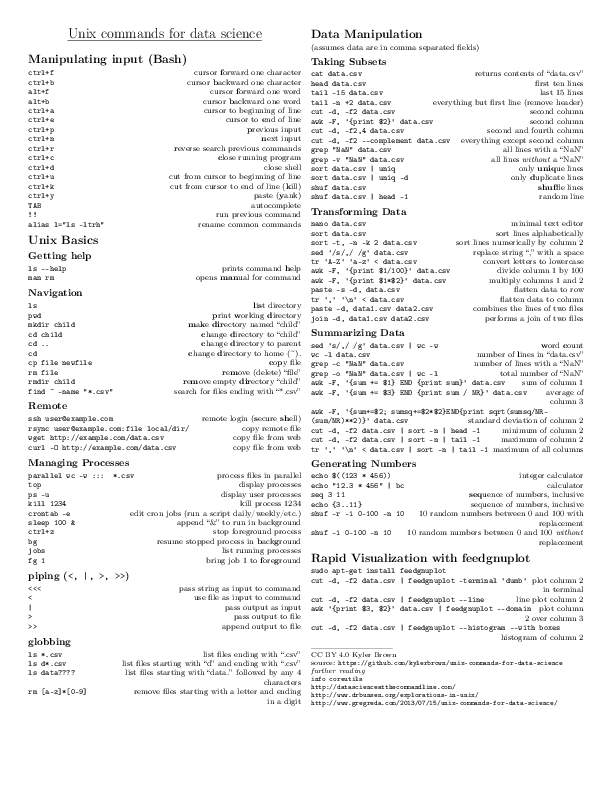
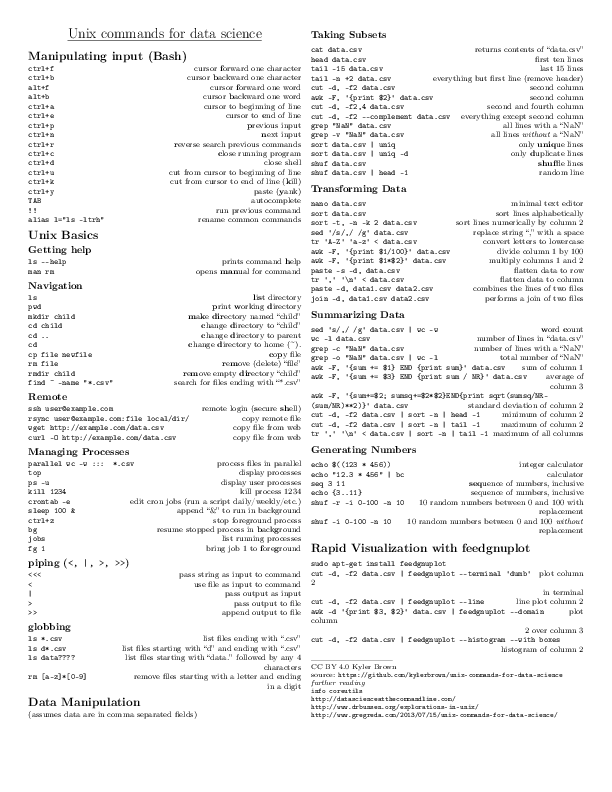
fixing typo, abreviating readme

Changed region(s): [[0.031, 0.0303, 0.9624, 0.9091], [0.1863, 0.697, 0.2173, 0.7273]]

diff --git a/unix-commands-for-data-science.tex b/unix-commands-for-data-science.tex
@@ -203,10 +203,10 @@
 
 \section{Rapid Visualization with \href{https://github.com/dkogan/feedgnuplot}{feedgnuplot}}
 {\tt sudo apt-get install feedgnuplot}\\
-{\tt cut -d, -f2  data.csv | feedgnuplot --terminal \q dumb\q} \hfill plot column 2\\
+{\tt cut -d, -f2  data.csv | feedgnuplot -{}-terminal \q dumb\q} \hfill plot column 2\\
 	\hfill in terminal\\
 {\tt  cut -d, -f2  data.csv | feedgnuplot -{}-line} \hfill line plot column 2\\
-{\tt awk \q\{print \$3, \$2\}\q\  data.csv | feedgnuplot -{}-domain} \hfill plot column\\
+{\tt awk -d \q\{print \$3, \$2\}\q\  data.csv | feedgnuplot -{}-domain} \hfill plot column\\
 	\hfill 2 over column 3\\
 {\tt cut -d, -f2   data.csv | feedgnuplot -{}-histogram -{}-with boxes}\\
 	\hfill histogram of column 2\\

diff --git a/README.md b/README.md
@@ -4,15 +4,7 @@ A list of useful unix commands for data science. Since unix has been designed fr
 
 Commands tested with GNU coreutils 8.21, Bash 4.3.11, feedgnuplot 1.32, gnuplot 4.6.
 
-This cheat sheet assumes data are comma separated, for other delimiters make the following adjustment:
-
-    cut -d "DELIM"
-    paste -d "DELIM"
-    join -d "DELIM"
-    sort -t "DELIM"
-    awk -F "DELIM"
 Pull requests/issues welcome.
-
 
 [pdf](https://github.com/kylerbrown/unix-commands-for-data-science/raw/master/unix-commands-for-data-science.pdf)
 
